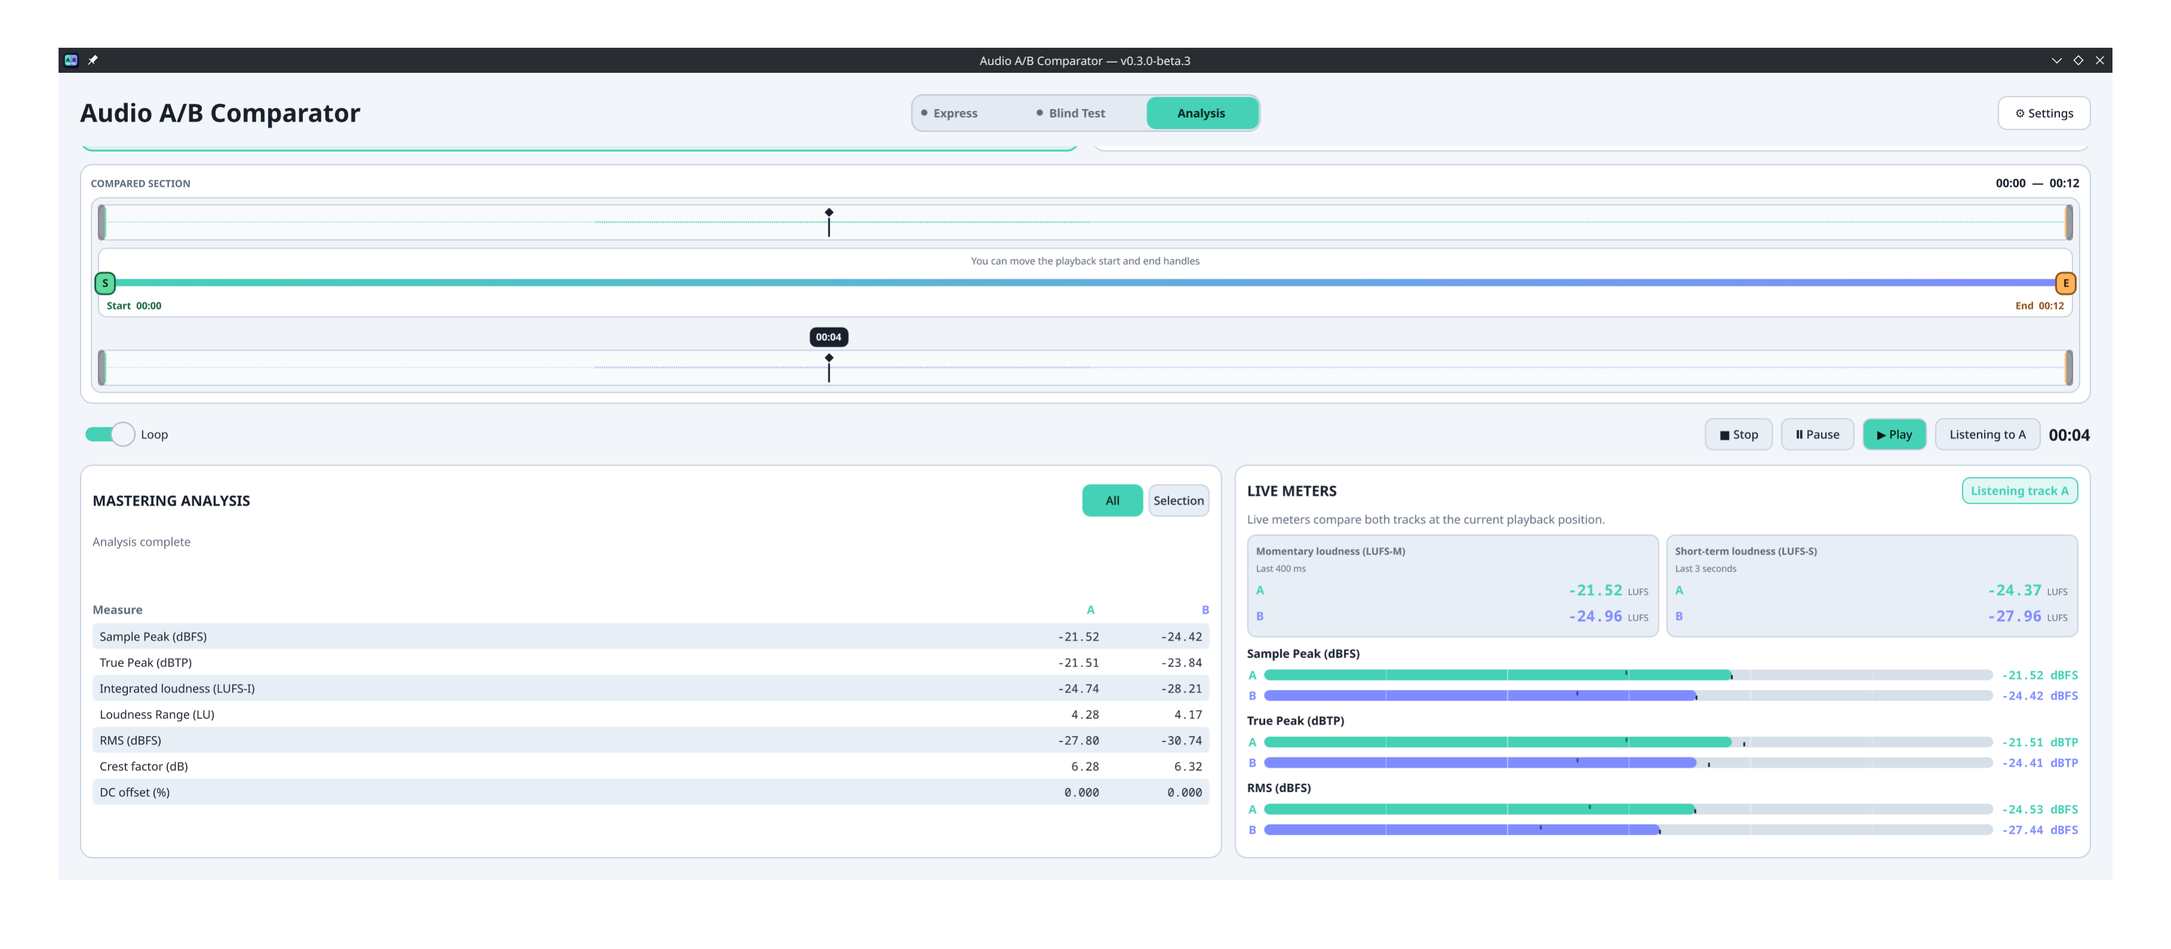
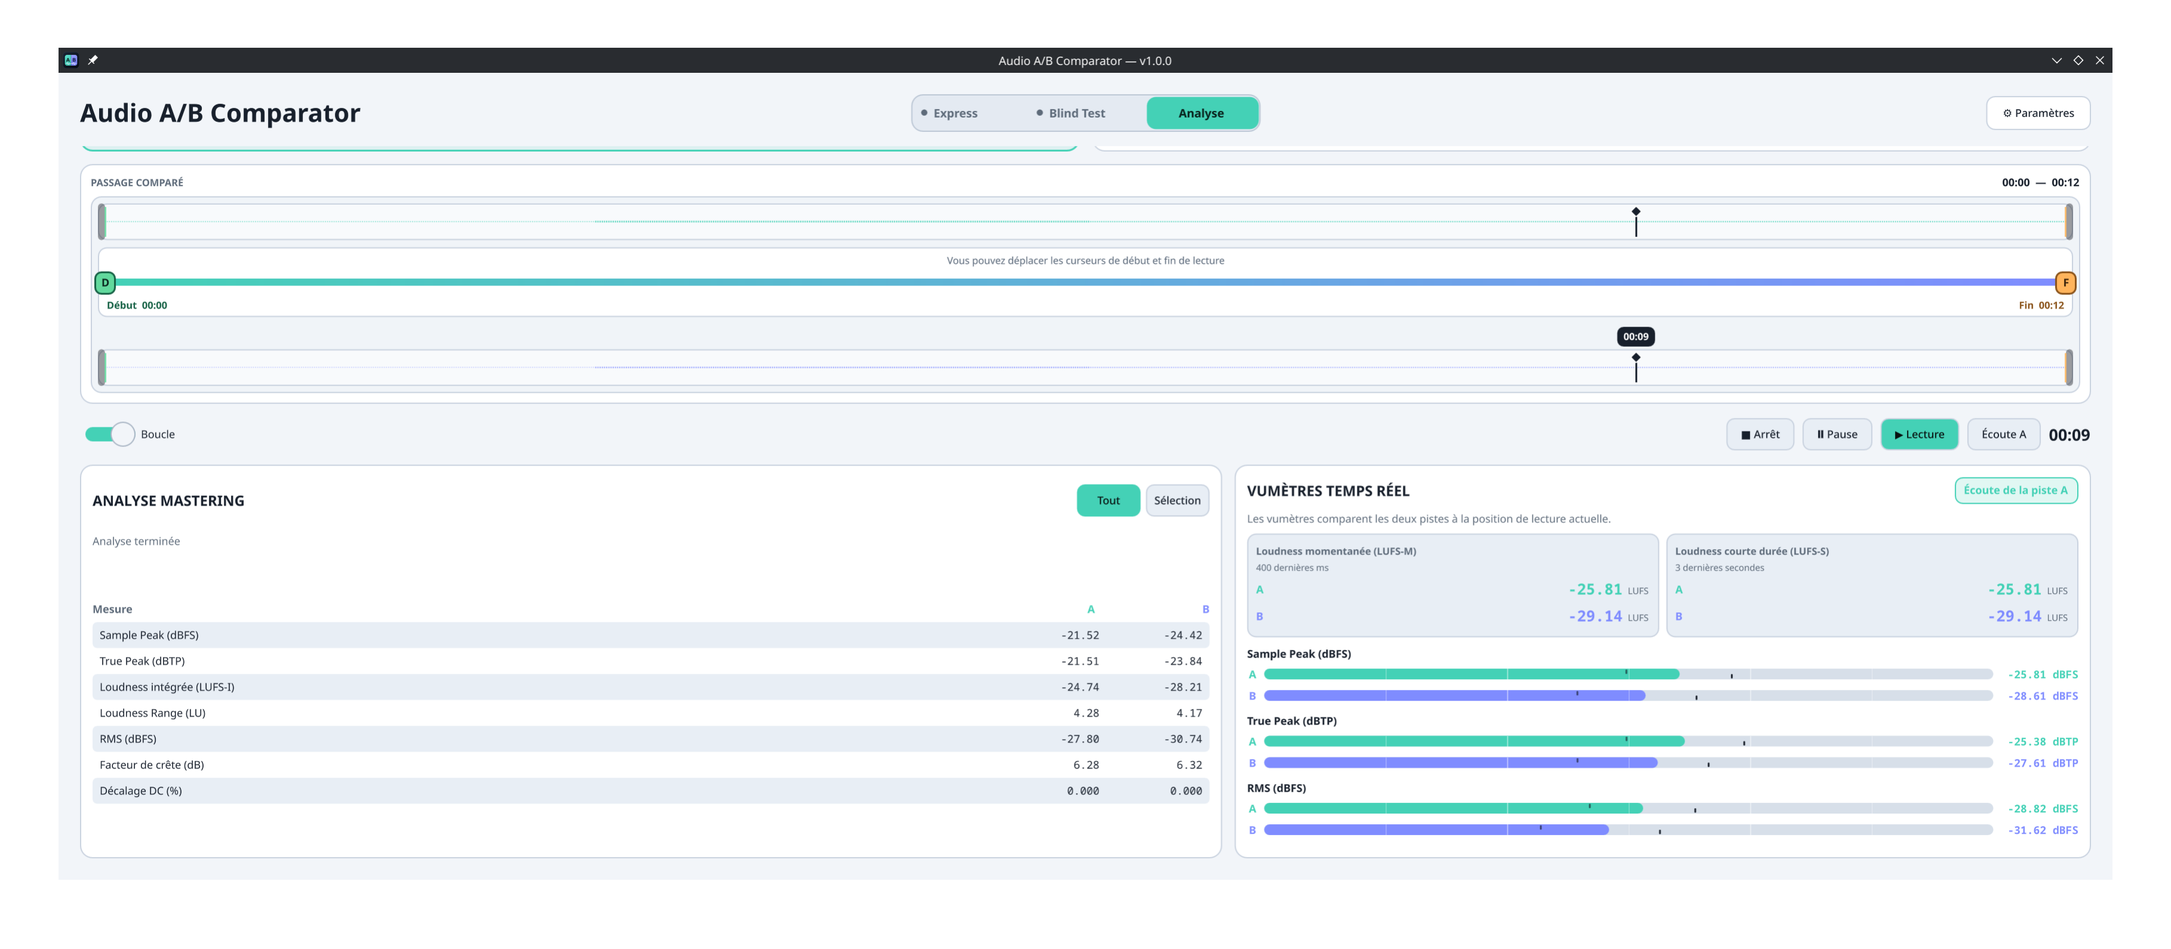
Release Audio A/B Comparator 1.0.0

diff --git a/app/translations/ab_compare_ja.ts b/app/translations/ab_compare_ja.ts
@@ -10,8 +10,8 @@
     </message>
     <message>
         <location filename="../ui/components/AnalysisDashboard.qml" line="45"/>
-        <source>Multichannel analysis is not supported yet; mono and stereo are supported.</source>
-        <translation>マルチチャンネル解析はまだ未対応です。モノラルとステレオに対応しています。</translation>
+        <source>Multichannel analysis is not supported; mono and stereo are supported.</source>
+        <translation>マルチチャンネル解析は非対応です。モノラルとステレオに対応しています。</translation>
     </message>
     <message>
         <location filename="../ui/components/AnalysisDashboard.qml" line="47"/>
@@ -40,8 +40,8 @@
     </message>
     <message>
         <location filename="../ui/components/AnalysisDashboard.qml" line="86"/>
-        <source>Multichannel live measurements are not supported yet.</source>
-        <translation>マルチチャンネルのリアルタイム測定はまだ未対応です。</translation>
+        <source>Multichannel live measurements are not supported.</source>
+        <translation>マルチチャンネルのリアルタイム測定は非対応です。</translation>
     </message>
     <message>
         <location filename="../ui/components/AnalysisDashboard.qml" line="88"/>

diff --git a/app/translations/ab_compare_fr.ts b/app/translations/ab_compare_fr.ts
@@ -10,8 +10,8 @@
     </message>
     <message>
         <location filename="../ui/components/AnalysisDashboard.qml" line="45"/>
-        <source>Multichannel analysis is not supported yet; mono and stereo are supported.</source>
-        <translation>L’analyse multicanale n’est pas encore prise en charge ; les formats mono et stéréo le sont.</translation>
+        <source>Multichannel analysis is not supported; mono and stereo are supported.</source>
+        <translation>L’analyse multicanale n’est pas prise en charge ; les formats mono et stéréo le sont.</translation>
     </message>
     <message>
         <location filename="../ui/components/AnalysisDashboard.qml" line="47"/>
@@ -40,8 +40,8 @@
     </message>
     <message>
         <location filename="../ui/components/AnalysisDashboard.qml" line="86"/>
-        <source>Multichannel live measurements are not supported yet.</source>
-        <translation>Les mesures multicanales en temps réel ne sont pas encore prises en charge.</translation>
+        <source>Multichannel live measurements are not supported.</source>
+        <translation>Les mesures multicanales en temps réel ne sont pas prises en charge.</translation>
     </message>
     <message>
         <location filename="../ui/components/AnalysisDashboard.qml" line="88"/>

diff --git a/app/translations/ab_compare_pt_BR.ts b/app/translations/ab_compare_pt_BR.ts
@@ -10,8 +10,8 @@
     </message>
     <message>
         <location filename="../ui/components/AnalysisDashboard.qml" line="45"/>
-        <source>Multichannel analysis is not supported yet; mono and stereo are supported.</source>
-        <translation>A análise multicanal ainda não é compatível; mono e estéreo são aceitos.</translation>
+        <source>Multichannel analysis is not supported; mono and stereo are supported.</source>
+        <translation>A análise multicanal não é compatível; mono e estéreo são aceitos.</translation>
     </message>
     <message>
         <location filename="../ui/components/AnalysisDashboard.qml" line="47"/>
@@ -40,8 +40,8 @@
     </message>
     <message>
         <location filename="../ui/components/AnalysisDashboard.qml" line="86"/>
-        <source>Multichannel live measurements are not supported yet.</source>
-        <translation>As medições multicanal em tempo real ainda não são compatíveis.</translation>
+        <source>Multichannel live measurements are not supported.</source>
+        <translation>As medições multicanal em tempo real não são compatíveis.</translation>
     </message>
     <message>
         <location filename="../ui/components/AnalysisDashboard.qml" line="88"/>

diff --git a/app/translations/ab_compare_de.ts b/app/translations/ab_compare_de.ts
@@ -10,8 +10,8 @@
     </message>
     <message>
         <location filename="../ui/components/AnalysisDashboard.qml" line="45"/>
-        <source>Multichannel analysis is not supported yet; mono and stereo are supported.</source>
-        <translation>Mehrkanalanalyse wird noch nicht unterstützt; Mono und Stereo werden unterstützt.</translation>
+        <source>Multichannel analysis is not supported; mono and stereo are supported.</source>
+        <translation>Mehrkanalanalyse wird nicht unterstützt; Mono und Stereo werden unterstützt.</translation>
     </message>
     <message>
         <location filename="../ui/components/AnalysisDashboard.qml" line="47"/>
@@ -40,8 +40,8 @@
     </message>
     <message>
         <location filename="../ui/components/AnalysisDashboard.qml" line="86"/>
-        <source>Multichannel live measurements are not supported yet.</source>
-        <translation>Mehrkanal-Live-Messungen werden noch nicht unterstützt.</translation>
+        <source>Multichannel live measurements are not supported.</source>
+        <translation>Mehrkanal-Live-Messungen werden nicht unterstützt.</translation>
     </message>
     <message>
         <location filename="../ui/components/AnalysisDashboard.qml" line="88"/>

diff --git a/app/translations/ab_compare_es.ts b/app/translations/ab_compare_es.ts
@@ -10,8 +10,8 @@
     </message>
     <message>
         <location filename="../ui/components/AnalysisDashboard.qml" line="45"/>
-        <source>Multichannel analysis is not supported yet; mono and stereo are supported.</source>
-        <translation>El análisis multicanal aún no es compatible; se admiten mono y estéreo.</translation>
+        <source>Multichannel analysis is not supported; mono and stereo are supported.</source>
+        <translation>El análisis multicanal no es compatible; se admiten mono y estéreo.</translation>
     </message>
     <message>
         <location filename="../ui/components/AnalysisDashboard.qml" line="47"/>
@@ -40,8 +40,8 @@
     </message>
     <message>
         <location filename="../ui/components/AnalysisDashboard.qml" line="86"/>
-        <source>Multichannel live measurements are not supported yet.</source>
-        <translation>Las mediciones multicanal en tiempo real aún no son compatibles.</translation>
+        <source>Multichannel live measurements are not supported.</source>
+        <translation>Las mediciones multicanal en tiempo real no son compatibles.</translation>
     </message>
     <message>
         <location filename="../ui/components/AnalysisDashboard.qml" line="88"/>

diff --git a/app/translations/ab_compare_zh_CN.ts b/app/translations/ab_compare_zh_CN.ts
@@ -10,8 +10,8 @@
     </message>
     <message>
         <location filename="../ui/components/AnalysisDashboard.qml" line="45"/>
-        <source>Multichannel analysis is not supported yet; mono and stereo are supported.</source>
-        <translation>暂不支持多声道分析；支持单声道和立体声。</translation>
+        <source>Multichannel analysis is not supported; mono and stereo are supported.</source>
+        <translation>不支持多声道分析；支持单声道和立体声。</translation>
     </message>
     <message>
         <location filename="../ui/components/AnalysisDashboard.qml" line="47"/>
@@ -40,8 +40,8 @@
     </message>
     <message>
         <location filename="../ui/components/AnalysisDashboard.qml" line="86"/>
-        <source>Multichannel live measurements are not supported yet.</source>
-        <translation>暂不支持多声道实时测量。</translation>
+        <source>Multichannel live measurements are not supported.</source>
+        <translation>不支持多声道实时测量。</translation>
     </message>
     <message>
         <location filename="../ui/components/AnalysisDashboard.qml" line="88"/>

diff --git a/app/ui/components/AnalysisDashboard.qml b/app/ui/components/AnalysisDashboard.qml
@@ -42,7 +42,7 @@ ScrollView {
         if (stateA === 1 || stateB === 1)
             return qsTr("Analysis in progress…")
         if (stateA === 4 || stateB === 4)
-            return qsTr("Multichannel analysis is not supported yet; mono and stereo are supported.")
+            return qsTr("Multichannel analysis is not supported; mono and stereo are supported.")
         if (stateA === 3 || stateB === 3)
             return qsTr("Analysis failed. No previous values are shown as current.")
         if (stateA === 2 && stateB === 2)
@@ -83,7 +83,7 @@ ScrollView {
         if (liveState === 1)
             return qsTr("Measuring live signal…")
         if (liveState === 4)
-            return qsTr("Multichannel live measurements are not supported yet.")
+            return qsTr("Multichannel live measurements are not supported.")
         if (liveState === 3)
             return qsTr("Live measurement failed.")
         if (engine.paused)

diff --git a/app/src/analysis/AnalysisController.cpp b/app/src/analysis/AnalysisController.cpp
@@ -141,7 +141,7 @@ AnalysisController::State AnalysisController::stateFor(const AnalysisMetrics &me
     if (metrics.valid) {
         return Ready;
     }
-    if (metrics.error == QStringLiteral("Multichannel analysis is not supported yet.")) {
+    if (metrics.error == QStringLiteral("Multichannel analysis is not supported.")) {
         return Unsupported;
     }
     return Failed;

diff --git a/app/src/analysis/LiveAnalysis.cpp b/app/src/analysis/LiveAnalysis.cpp
@@ -78,7 +78,7 @@ LiveAnalysisMetrics LiveAnalysisComputer::analyze(
         return metrics;
     }
     if (format.channelCount() < 1 || format.channelCount() > 2) {
-        metrics.error = QStringLiteral("Multichannel live analysis is not supported yet.");
+        metrics.error = QStringLiteral("Multichannel live analysis is not supported.");
         return metrics;
     }
 

diff --git a/app/src/analysis/AnalysisMetrics.cpp b/app/src/analysis/AnalysisMetrics.cpp
@@ -53,7 +53,7 @@ AnalysisMetrics AnalysisComputer::analyze(
         return metrics;
     }
     if (format.channelCount() < 1 || format.channelCount() > 2) {
-        metrics.error = QStringLiteral("Multichannel analysis is not supported yet.");
+        metrics.error = QStringLiteral("Multichannel analysis is not supported.");
         return metrics;
     }
 

diff --git a/README.md b/README.md
@@ -32,15 +32,15 @@ Everything runs locally. No audio is uploaded, and the application has no accoun
 
 ## Download
 
-Version **0.3.0-beta.3** is available as a portable ZIP for **Windows 10 and Windows 11 x64** and as an AppImage for **Linux x86_64**. Download the binary and `SHA256SUMS` from the [GitHub Releases page](https://github.com/KarmaGame33/AudioABComparator/releases). Do not download binaries from the repository source tree.
+Version **1.0.0** is available as a portable ZIP for **Windows 10 and Windows 11 x64** and as an AppImage for **Linux x86_64**. Download the binary and `SHA256SUMS` from the [GitHub Releases page](https://github.com/KarmaGame33/AudioABComparator/releases). Do not download binaries from the repository source tree.
 
-This beta is unsigned. Windows SmartScreen may display a warning because the executable has no Authenticode signature or established reputation. Verify the SHA-256 checksum, extract the complete ZIP, then run `ab-compare.exe` from the extracted folder.
+The Windows build is unsigned. SmartScreen may display a warning because the executable has no Authenticode signature or established reputation. Verify the SHA-256 checksum, extract the complete ZIP, then run `ab-compare.exe` from the extracted folder.
 
 On Linux, make the AppImage executable and run it without installation:
 
 ```sh
-chmod +x AudioABComparator-0.3.0-beta.3-linux-x86_64.AppImage
-./AudioABComparator-0.3.0-beta.3-linux-x86_64.AppImage
+chmod +x AudioABComparator-1.0.0-linux-x86_64.AppImage
+./AudioABComparator-1.0.0-linux-x86_64.AppImage
 ```
 
 ## Features
@@ -61,27 +61,13 @@ chmod +x AudioABComparator-0.3.0-beta.3-linux-x86_64.AppImage
 
 ## Analysis and native playback
 
-Analysis runs locally in the background. Whole-file and selection results use the retained native PCM and the native sample rate, channel count and sample format of each track. Live meters compare the playback PCM of A and B over the same moving window, excluding the optional transition beep and the short A/B crossfade. Their minimum and maximum markers persist through pause, resume, seeking and A/B switching, then reset on Stop or a selection change. This slice supports mono and stereo analysis; multichannel tracks remain loadable but their analysis is explicitly marked unsupported.
+Analysis runs locally in the background. Whole-file and selection results use the retained native PCM and the native sample rate, channel count and sample format of each track. Live meters compare the playback PCM of A and B over the same moving window, excluding the optional transition beep and the short A/B crossfade. Their minimum and maximum markers persist through pause, resume, seeking and A/B switching, then reset on Stop or a selection change. Analysis supports mono and stereo; multichannel tracks remain loadable but are not analysed.
 
 “Native playback” means that Audio A/B Comparator passes the common decoded PCM format to Qt when the default output device accepts it. It does not claim bit-perfect delivery after PipeWire, the Windows audio engine, a system mixer or device processing. If direct playback is not possible, the application converts to the default device's preferred format and reports sample-rate, channel-layout and sample-format changes separately for A and B. It never applies normalization, EQ, compression or limiting.
 
 Displayed audio values use two decimal places and DC offset uses three. Digital silence is shown as `−∞`; mathematically unavailable results are shown as `—`. Sample Peak and True Peak use the maximum channel, RMS uses every sample, and DC offset uses the signed mean of the channel with the strongest absolute offset.
 
 The calculation contract and automated tolerances are documented in [`docs/analysis_validation.md`](docs/analysis_validation.md).
-
-## Planned features
-
-The roadmap currently includes, without a fixed schedule:
-
-- stereo correlation and expanded multichannel analysis;
-- optional, non-destructive listening-level matching between both tracks;
-- more detailed meters;
-- a spectrum analyser and loudness history;
-- manual track offset and automatic correlation-based alignment;
-- improved multichannel file support;
-- a possible macOS port after native building and validation.
-
-These priorities may evolve according to real-world use and feedback. All feedback is welcome, whether it concerns usability, Blind Test behaviour, shortcuts, audio compatibility or future features.
 
 ## Build on Linux
 
@@ -129,22 +115,6 @@ Les principales fonctions sont :
 
 Tout fonctionne localement sur l’ordinateur : aucun fichier audio n’est envoyé sur un serveur et l’application ne contient ni compte utilisateur ni télémétrie. Les chemins des fichiers, les votes et les sessions d’écoute ne sont pas conservés après sa fermeture.
 
-La bêta **0.3.0-beta.3** est proposée en ZIP portable pour **Windows 10 et Windows 11 x64** et en AppImage pour **Linux x86_64** sur la page [GitHub Releases](https://github.com/KarmaGame33/AudioABComparator/releases). Vérifiez `SHA256SUMS` avant de lancer le binaire. Sous Windows, extrayez tout le ZIP puis lancez `ab-compare.exe` ; sous Linux, rendez l’AppImage exécutable avec `chmod +x`, puis lancez-la directement. Les retours se font uniquement par les [Issues GitHub](https://github.com/KarmaGame33/AudioABComparator/issues).
+La version **1.0.0** est proposée en ZIP portable pour **Windows 10 et Windows 11 x64** et en AppImage pour **Linux x86_64** sur la page [GitHub Releases](https://github.com/KarmaGame33/AudioABComparator/releases). Vérifiez `SHA256SUMS` avant de lancer le binaire. Sous Windows, extrayez tout le ZIP puis lancez `ab-compare.exe` ; sous Linux, rendez l’AppImage exécutable avec `chmod +x`, puis lancez-la directement. Les retours se font uniquement par les [Issues GitHub](https://github.com/KarmaGame33/AudioABComparator/issues).
 
-Il s’agit encore d’une bêta : l’interface et le fonctionnement principal sont opérationnels, mais les essais sur différentes configurations audio restent particulièrement utiles.
-
-### Fonctionnalités envisagées
-
-La feuille de route prévoit notamment, sans calendrier ferme :
-
-- la corrélation stéréo et une analyse multicanale étendue ;
-- une égalisation optionnelle et non destructive du niveau d’écoute entre les deux pistes ;
-- des vumètres plus détaillés ;
-- un analyseur spectral et un historique de la loudness ;
-- un décalage manuel des pistes et un alignement automatique par corrélation ;
-- une meilleure prise en charge des fichiers multicanaux ;
-- un éventuel portage macOS après compilation et validation natives.
-
-Ces priorités pourront évoluer en fonction des usages et des retours.
-
-**Tous les retours sont les bienvenus**, qu’ils concernent l’ergonomie, le fonctionnement du Blind Test, les raccourcis, la compatibilité audio ou les prochaines fonctionnalités. Vous pouvez signaler les problèmes reproductibles et proposer des améliorations dans les [Issues GitHub](https://github.com/KarmaGame33/AudioABComparator/issues).
+**Tous les retours sont les bienvenus**, notamment sur l’ergonomie, le fonctionnement du Blind Test, les raccourcis et la compatibilité audio. Vous pouvez signaler les problèmes reproductibles et proposer des améliorations dans les [Issues GitHub](https://github.com/KarmaGame33/AudioABComparator/issues).

diff --git a/docs/release_notes_v1.0.0.md b/docs/release_notes_v1.0.0.md
@@ -1,0 +1,53 @@
+# Audio A/B Comparator 1.0.0
+
+Audio A/B Comparator 1.0.0 is the first stable release. It completes the intended feature set for focused local A/B listening, blind tests and native-PCM mastering analysis.
+
+## Highlights
+
+- instant A/B switching over one shared timeline and selection, with looping, shortcuts and uninterrupted voting;
+- constrained Blind Test sessions with separate scores and a final reveal;
+- whole-file and selection measurements for A and B: Sample Peak, True Peak, LUFS-I, LRA, RMS, crest factor and DC offset;
+- paired Sample Peak, True Peak, RMS, LUFS-M and LUFS-S live meters with independent minimum and maximum markers;
+- native PCM retained for analysis and direct playback when both tracks share a device-supported format;
+- explicit sample-rate, channel-layout and sample-format conversion details when direct playback is unavailable;
+- complete English, French, German, Spanish, Brazilian Portuguese, Japanese and Simplified Chinese interfaces;
+- local-only operation with no account, cloud upload or telemetry.
+
+Analysis supports mono and stereo. Multichannel tracks can be loaded, but their static and live analysis is not supported. No normalization, EQ, compression or limiting is applied.
+
+## Downloads
+
+- Windows 10/11 x64: unsigned portable ZIP;
+- Linux x86_64: AppImage tested under Wayland and XWayland/XCB;
+- `SHA256SUMS`: checksums for both binaries.
+
+On Windows, extract the complete ZIP before running `ab-compare.exe`. SmartScreen may warn because the executable is not Authenticode-signed. On Linux, make the AppImage executable before launching it.
+
+Please report reproducible problems through [GitHub Issues](https://github.com/KarmaGame33/AudioABComparator/issues).
+
+---
+
+Audio A/B Comparator 1.0.0 est la première version stable. Elle réunit l’ensemble des fonctions prévues pour l’écoute A/B locale, les tests à l’aveugle et l’analyse mastering du PCM natif.
+
+## Points principaux
+
+- bascule A/B instantanée sur une timeline et une sélection communes, avec boucle, raccourcis et votes sans interruption ;
+- sessions Blind Test avec tirage contraint, scores séparés et révélation finale ;
+- mesures du fichier entier et de la sélection pour A et B : Sample Peak, True Peak, LUFS-I, LRA, RMS, facteur de crête et décalage DC ;
+- vumètres A/B simultanés Sample Peak, True Peak, RMS, LUFS-M et LUFS-S avec repères minimum et maximum indépendants ;
+- PCM natif conservé pour l’analyse et lecture directe lorsque les deux pistes partagent un format accepté par le périphérique ;
+- détail des conversions de fréquence, disposition des canaux et type d’échantillon lorsque la lecture directe est indisponible ;
+- interface complète en anglais, français, allemand, espagnol, portugais brésilien, japonais et chinois simplifié ;
+- fonctionnement entièrement local, sans compte, cloud ni télémétrie.
+
+L’analyse prend en charge les pistes mono et stéréo. Les pistes multicanales peuvent être chargées, mais leur analyse statique et temps réel n’est pas prise en charge. Aucune normalisation, égalisation, compression ni limitation n’est appliquée.
+
+## Téléchargements
+
+- Windows 10/11 x64 : ZIP portable non signé ;
+- Linux x86_64 : AppImage testée sous Wayland et XWayland/XCB ;
+- `SHA256SUMS` : empreintes des deux binaires.
+
+Sous Windows, extrayez le ZIP complet avant de lancer `ab-compare.exe`. SmartScreen peut afficher un avertissement car l’exécutable ne possède pas de signature Authenticode. Sous Linux, rendez l’AppImage exécutable avant de la lancer.
+
+Merci de signaler les problèmes reproductibles dans les [Issues GitHub](https://github.com/KarmaGame33/AudioABComparator/issues).
